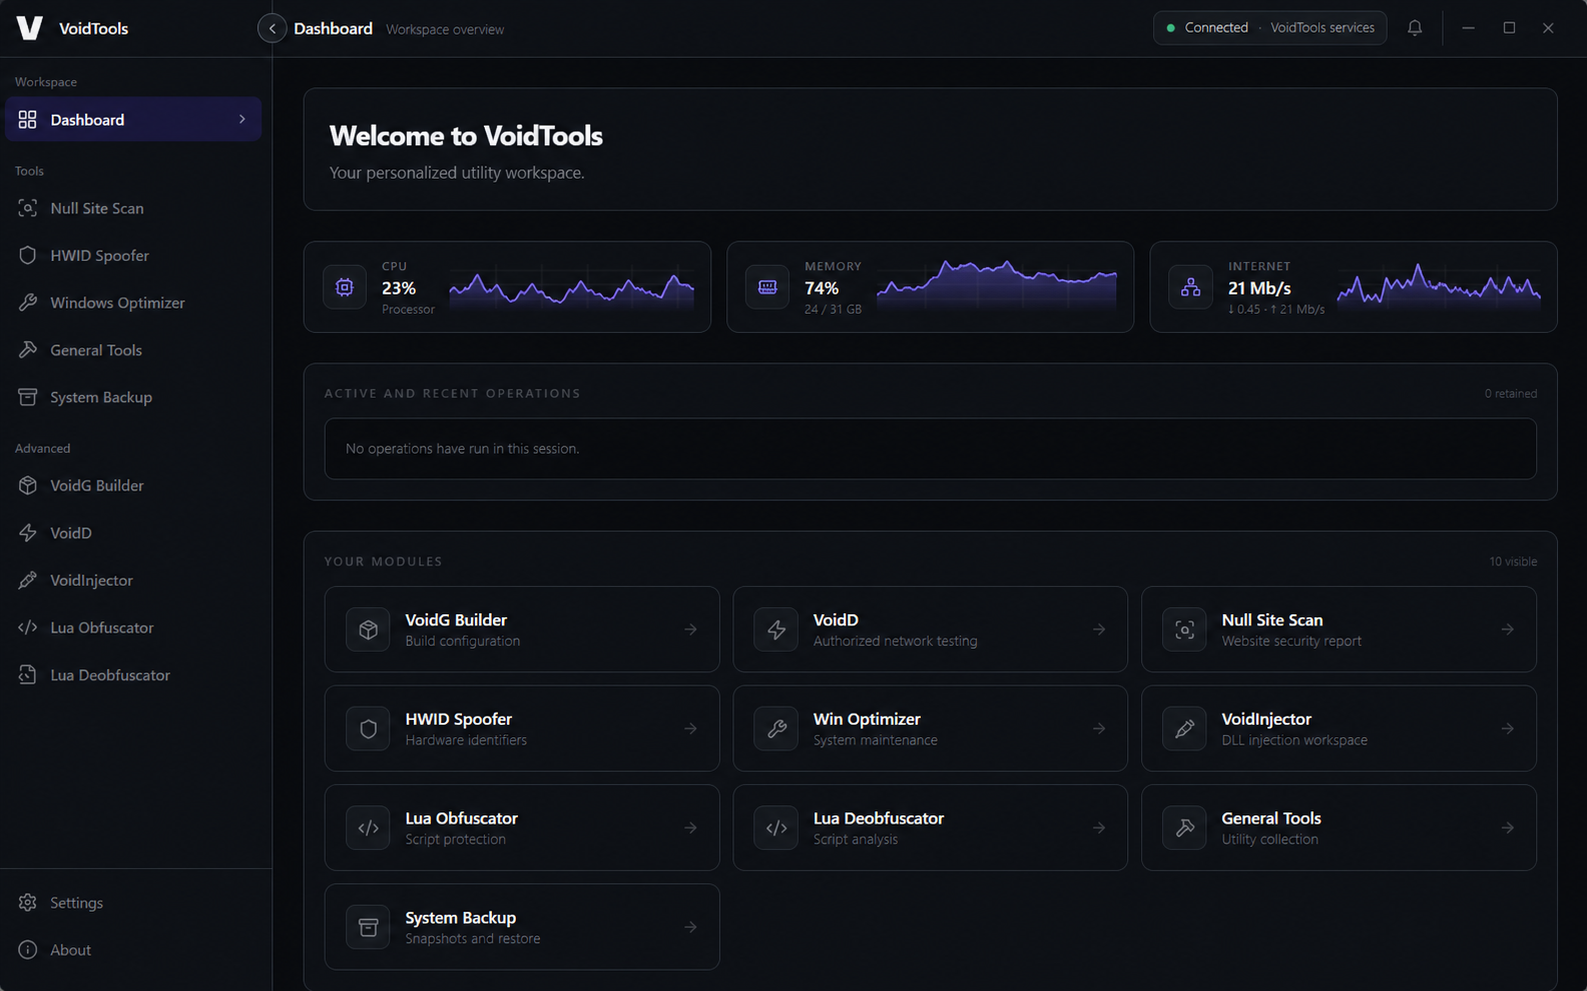
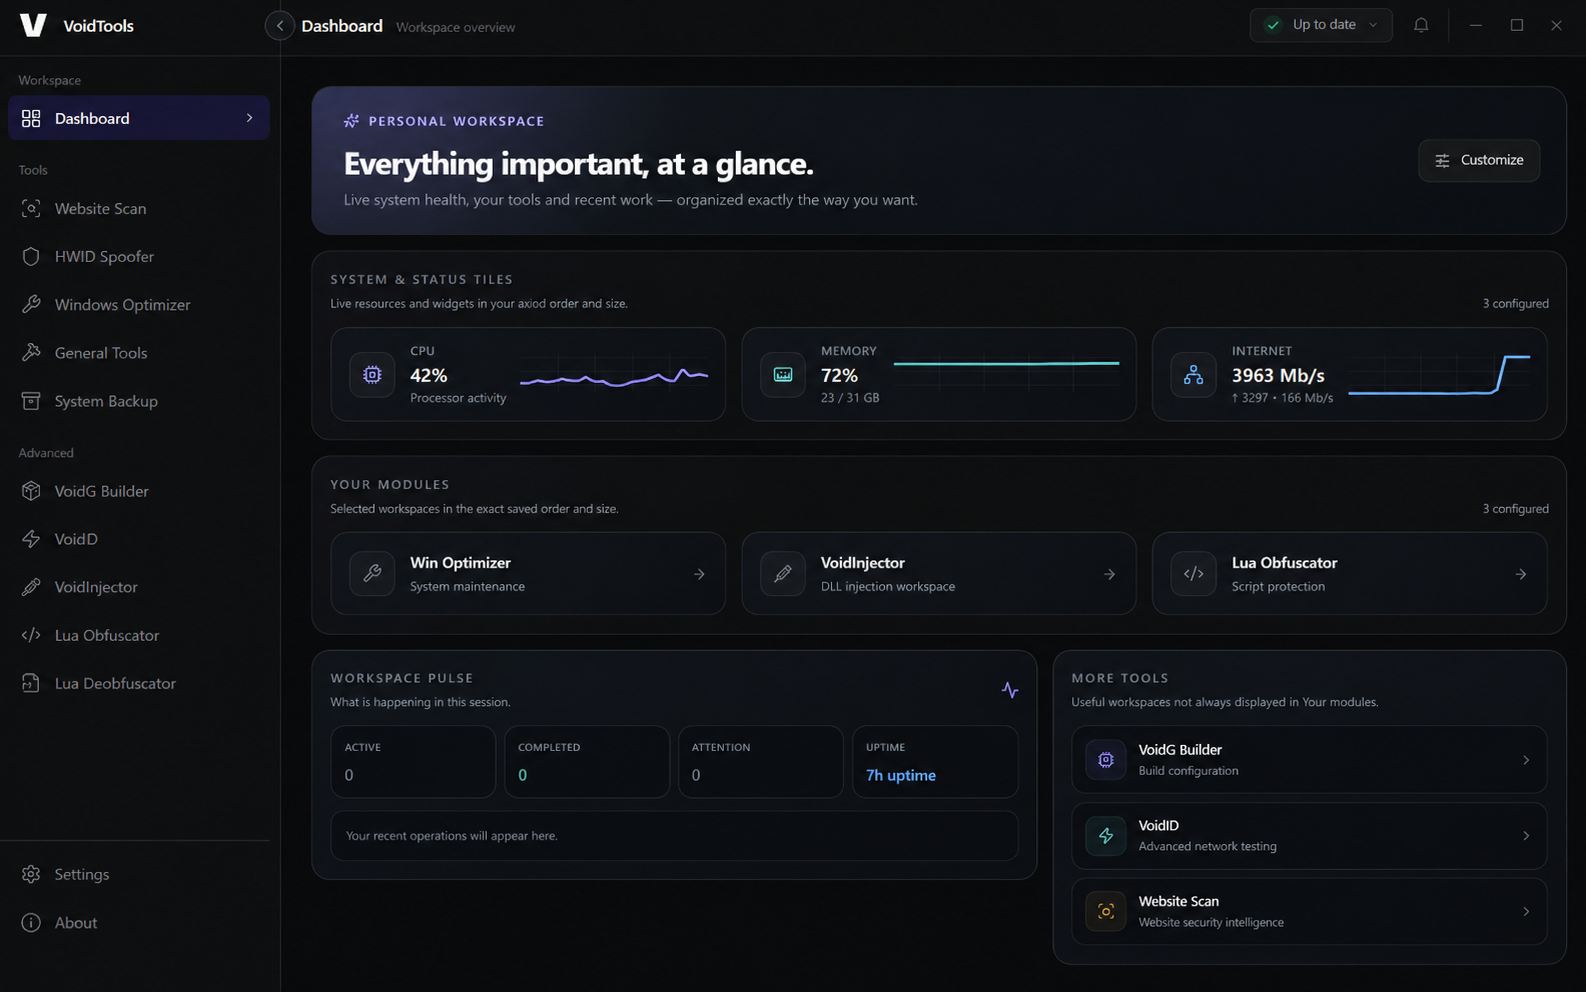
Update dashboard screenshot on product page

diff --git a/index.html b/index.html
@@ -9,13 +9,13 @@
   <meta property="og:description" content="System tools, diagnostics and development utilities in one focused application." />
   <meta property="og:type" content="website" />
   <meta property="og:url" content="https://lordsniper007.github.io/" />
-  <meta property="og:image" content="https://lordsniper007.github.io/voidtools-dashboard.png" />
+  <meta property="og:image" content="https://lordsniper007.github.io/voidtools-dashboard.png?v=20260717-1" />
   <title>VoidTools — Windows Utility Workspace</title>
   <link rel="preconnect" href="https://fonts.googleapis.com" />
   <link rel="preconnect" href="https://fonts.gstatic.com" crossorigin />
   <link href="https://fonts.googleapis.com/css2?family=Inter:wght@400;500;600;700&display=swap" rel="stylesheet" />
-  <link rel="icon" href="/favicon.svg?v=20260715-3" type="image/svg+xml" />
-  <link rel="stylesheet" href="/styles.css?v=20260715-3" />
+  <link rel="icon" href="/favicon.svg?v=20260717-1" type="image/svg+xml" />
+  <link rel="stylesheet" href="/styles.css?v=20260717-1" />
 </head>
 <body>
   <header class="site-header">
@@ -50,7 +50,7 @@
 
       <div id="product" class="preview wide-container">
         <div class="preview-halo" aria-hidden="true"></div>
-        <img src="/voidtools-dashboard.png?v=20260715-3" alt="VoidTools dashboard with complete system charts and available modules" width="1587" height="991" />
+        <img src="/voidtools-dashboard.png?v=20260717-1" alt="VoidTools dashboard with complete system charts and available modules" width="1586" height="992" />
       </div>
     </section>
 
@@ -105,6 +105,6 @@
     </div>
   </footer>
 
-  <script src="/script.js?v=20260715-3" defer></script>
+  <script src="/script.js?v=20260717-1" defer></script>
 </body>
 </html>